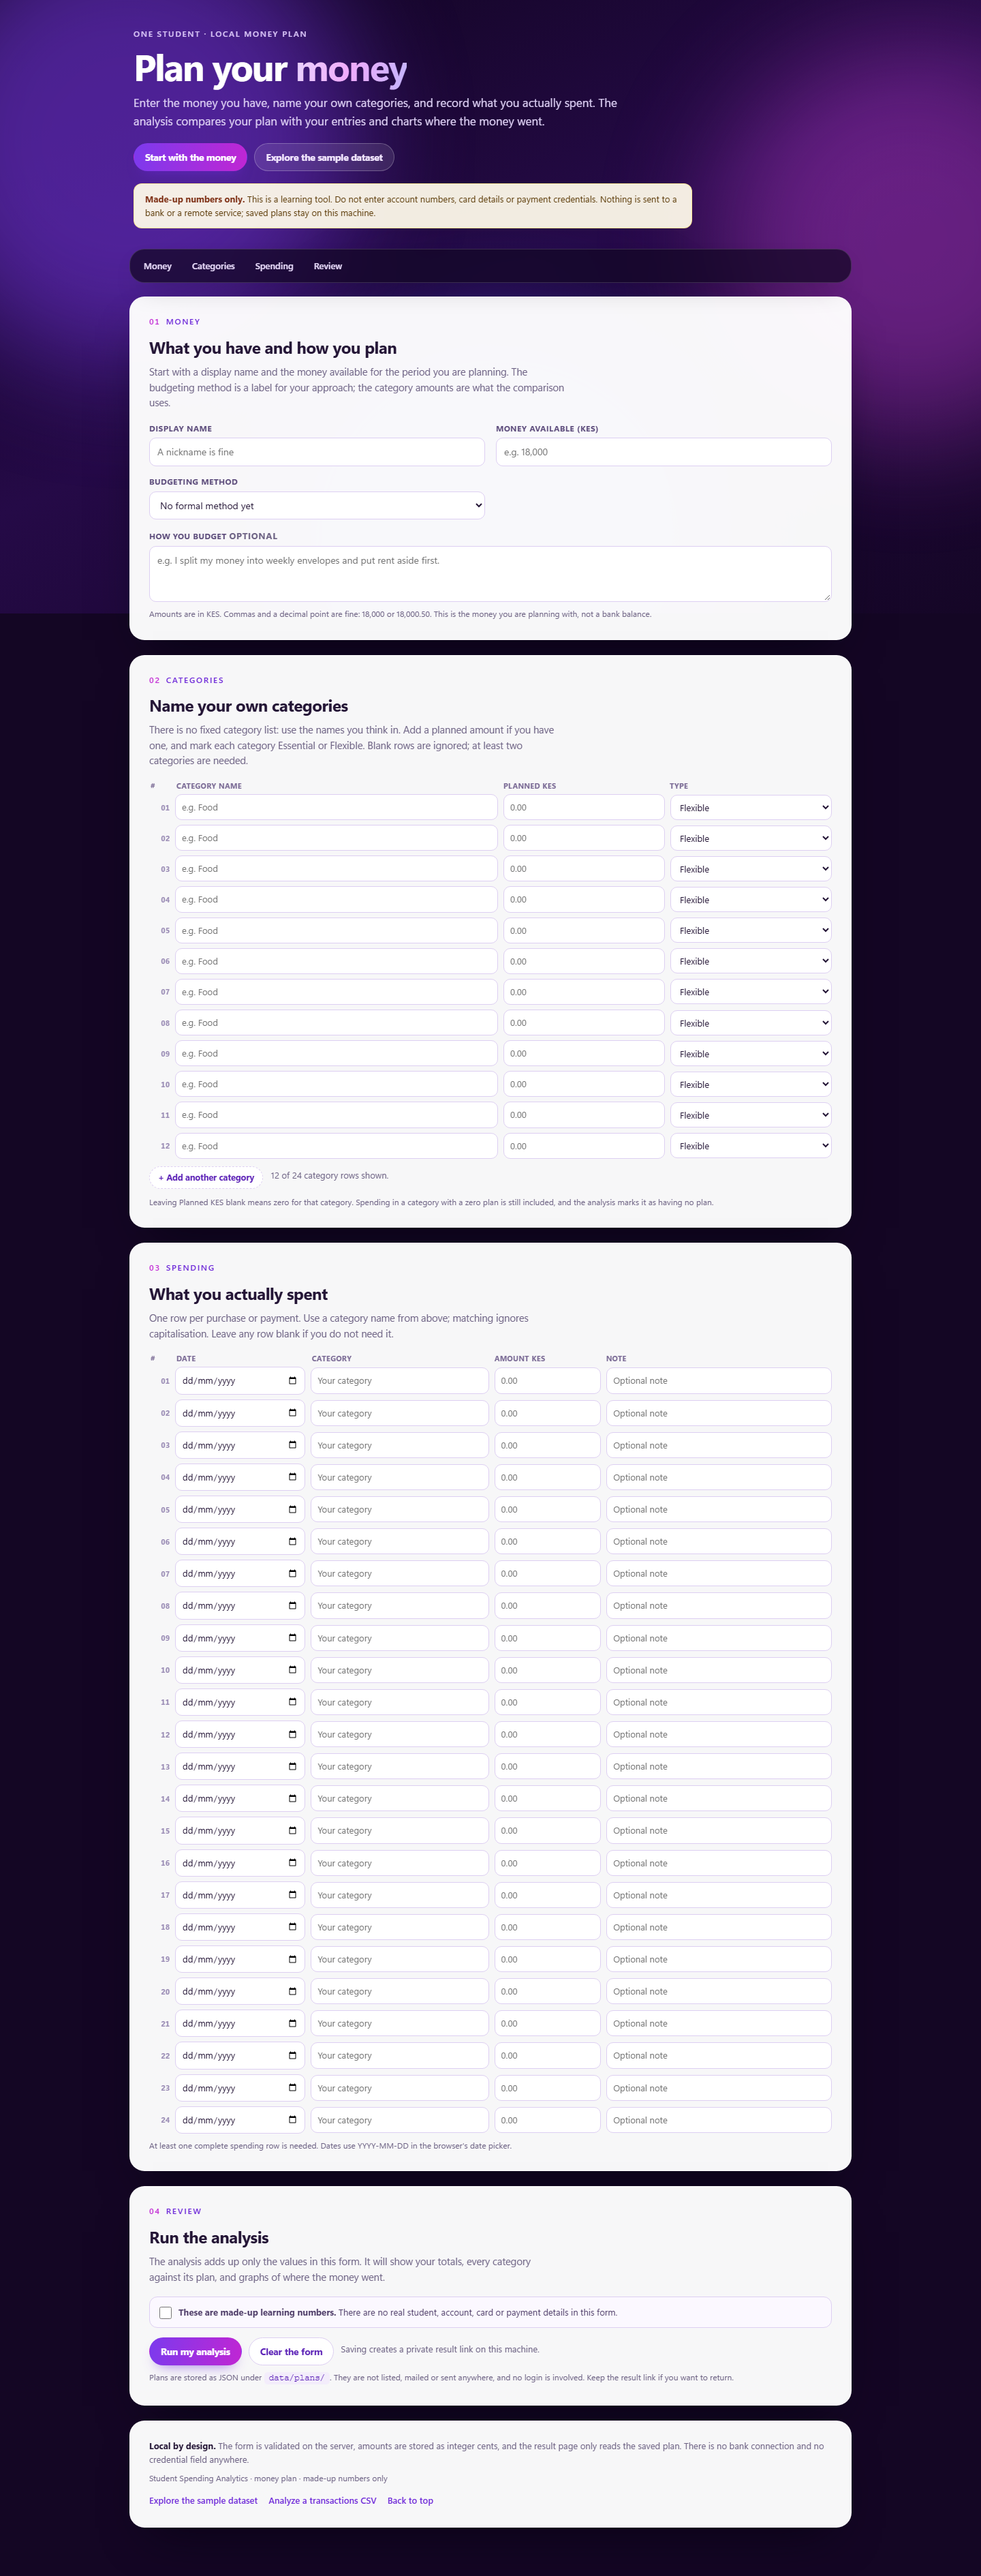
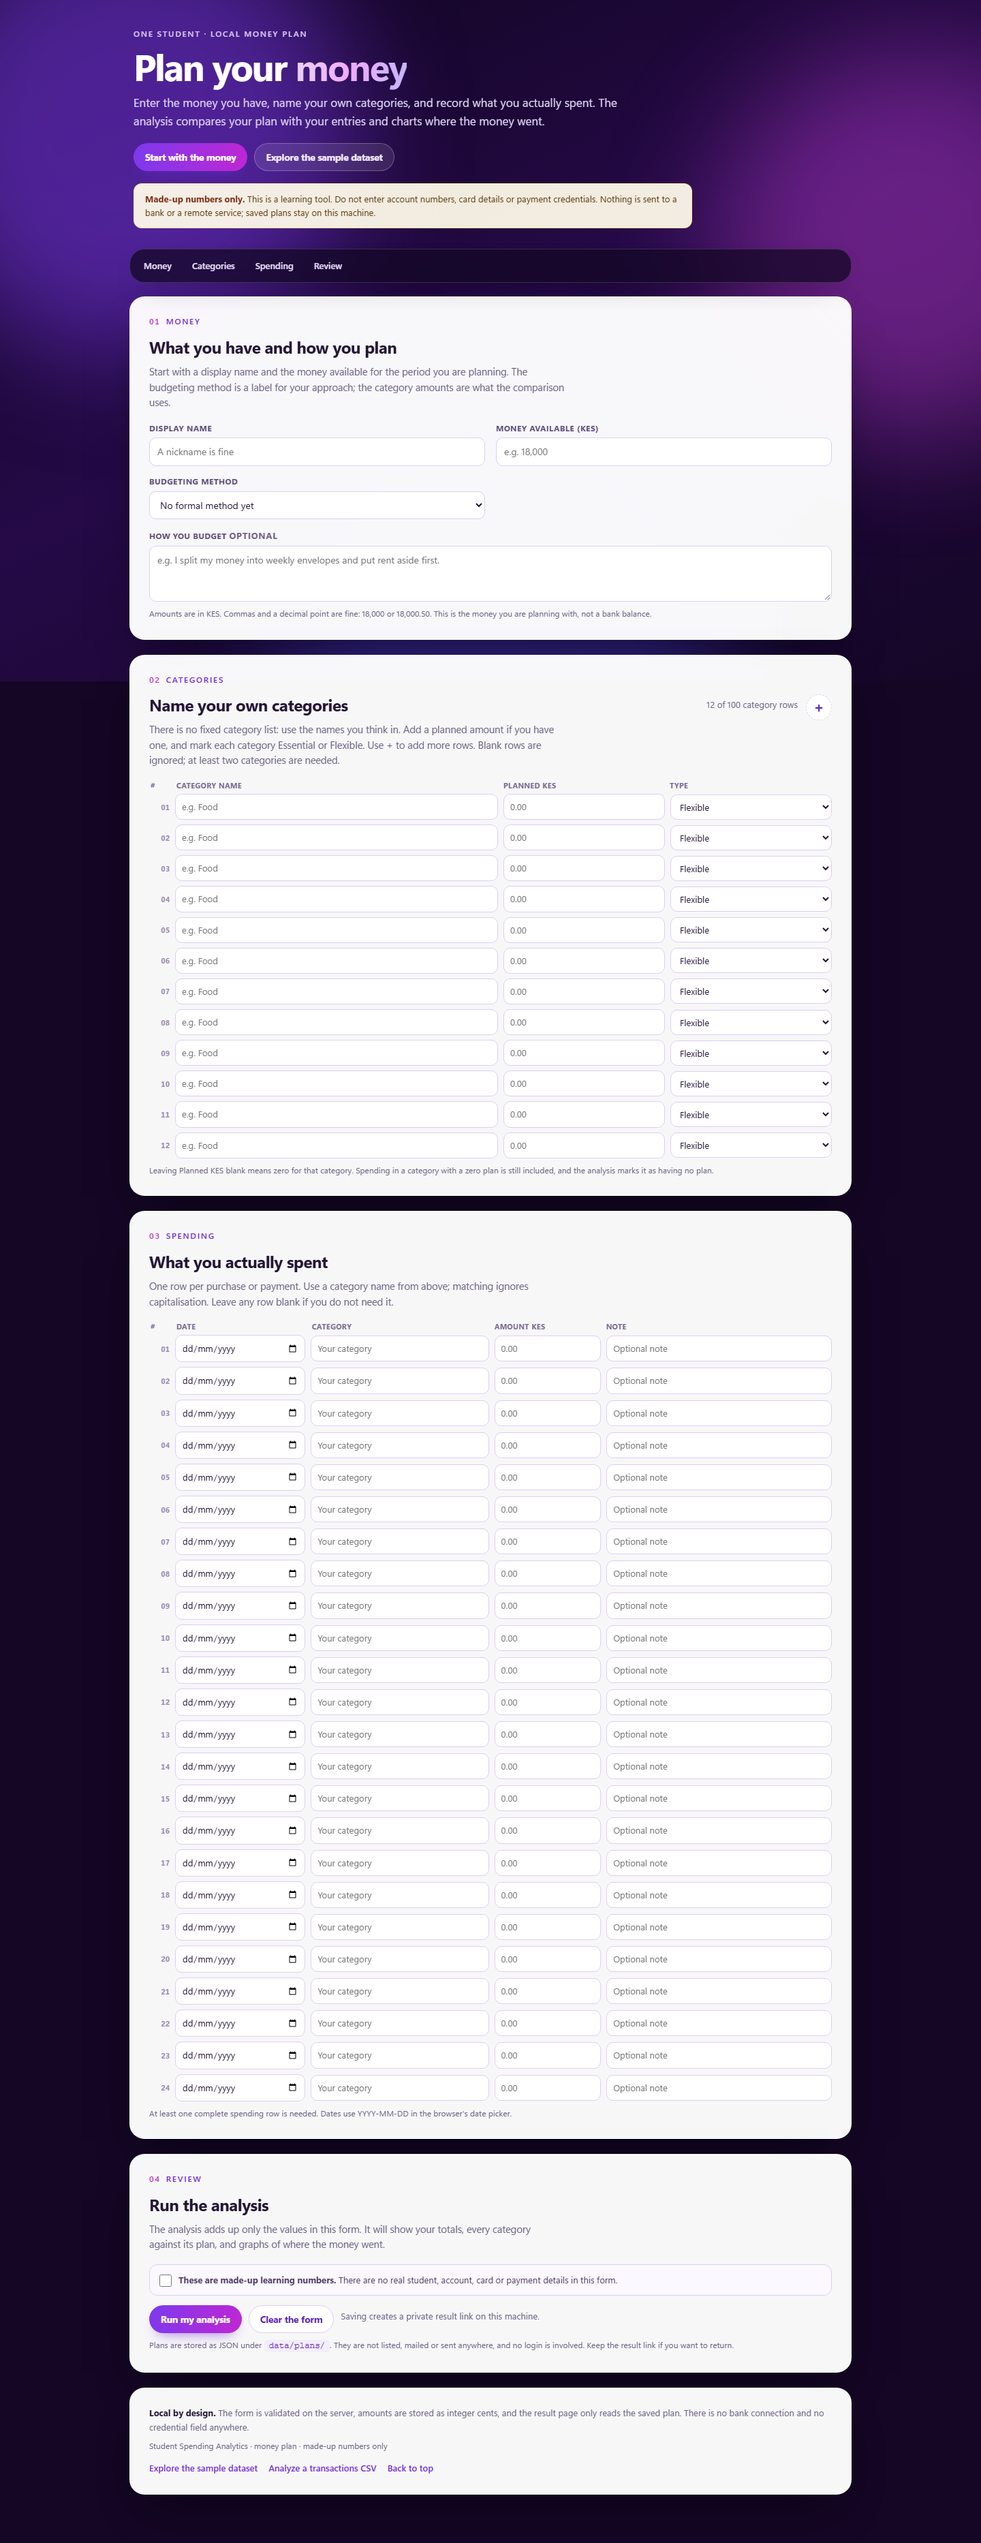
feat: use a + control for category rows and raise the limit
The Categories heading now carries a compact + button that adds one row while
keeping the draft, and still saves nothing until the analysis is run. Students
can grow the list from 12 to 100 categories; the form field cap rises to 600 so
the largest plan parses.

Changed region(s): [[0.0, 0.0311, 0.875, 0.9636], [0.75, 0.9325, 0.8125, 0.9636]]

diff --git a/src/student_spending/web.py b/src/student_spending/web.py
@@ -205,9 +205,13 @@ _DASH_CSS = """
 .row-no { color: #9a8cb5; font-size: 11px; font-weight: 700;
   font-variant-numeric: tabular-nums; text-align: right; }
 .plan-section-note { margin: 8px 0 0; color: var(--muted); font-size: 12px; }
-.plan-add { display: flex; flex-wrap: wrap; gap: 6px 12px; align-items: center;
-  margin: 10px 0 0; }
+.plan-title-row { display: flex; flex-wrap: wrap; gap: 8px 16px; align-items: center;
+  justify-content: space-between; }
+.plan-add { display: flex; flex-wrap: wrap; gap: 8px 12px; align-items: center; }
 .plan-add .button { border-style: dashed; }
+.plan-add-button { width: 38px; height: 38px; padding: 0; font-size: 22px;
+  line-height: 1; }
+.plan-add-button span { transform: translateY(-1px); }
 .error-list { margin: 5px 0 0; padding-left: 18px; }
 .error-list li { margin: 2px 0; }
 .plan-actions { display: flex; flex-wrap: wrap; gap: 10px; align-items: center;
@@ -1560,17 +1564,18 @@ def render_plan_page(
     if category_rows < MAX_CATEGORIES:
         add_category = (
             '<div class="plan-add">'
-            '<button class="button ghost small" type="submit" name="action" '
-            'value="add_category" formaction="/plan#categories" formnovalidate>'
-            "+ Add another category</button>"
             f'<span class="section-note">{category_rows} of {MAX_CATEGORIES} '
-            "category rows shown.</span>"
+            "category rows</span>"
+            '<button class="button ghost plan-add-button" type="submit" '
+            'name="action" value="add_category" formaction="/plan#categories" '
+            'formnovalidate aria-label="Add another category" '
+            'title="Add another category"><span aria-hidden="true">+</span></button>'
             "</div>"
         )
     else:
         add_category = (
-            f'<p class="plan-section-note">{MAX_CATEGORIES} category rows is the '
-            "maximum.</p>"
+            f'<span class="section-note">{MAX_CATEGORIES} category rows is the '
+            "maximum.</span>"
         )
     body = f"""
 <main class="shell">
@@ -1635,17 +1640,20 @@ def render_plan_page(
 
     <section class="panel" id="categories" aria-labelledby="categories-title">
       <p class="eyebrow"><span class="section-no">02</span> Categories</p>
-      <h2 id="categories-title">Name your own categories</h2>
+      <div class="plan-title-row">
+        <h2 id="categories-title">Name your own categories</h2>
+        {add_category}
+      </div>
       <p class="lead">There is no fixed category list: use the names you think in.
         Add a planned amount if you have one, and mark each category Essential or
-        Flexible. Blank rows are ignored; at least two categories are needed.</p>
+        Flexible. Use + to add more rows. Blank rows are ignored; at least two
+        categories are needed.</p>
       <div class="plan-rows">
         <div class="plan-row-head cat-cols">
           <span>#</span><span>Category name</span><span>Planned KES</span><span>Type</span>
         </div>
         {categories_html}
       </div>
-      {add_category}
       <p class="plan-section-note">Leaving Planned KES blank means zero for that
         category. Spending in a category with a zero plan is still included, and the
         analysis marks it as having no plan.</p>
@@ -2114,7 +2122,7 @@ class DashboardServer(ThreadingHTTPServer):
 
 class DashboardHandler(BaseHTTPRequestHandler):
     server: DashboardServer
-    server_version = "StudentSpendingDashboard/1.4.1"
+    server_version = "StudentSpendingDashboard/1.4.2"
     sys_version = ""
     timeout = 30
 

diff --git a/tests/test_web.py b/tests/test_web.py
@@ -1112,7 +1112,8 @@ class MoneyPlanTests(unittest.TestCase):
         self.assertGreater(int(headers["Content-Length"]), 0)
         self.assertIn('name="category_rows" value="12"', page)
         self.assertIn('name="spending_rows" value="24"', page)
-        self.assertIn("+ Add another category", page)
+        self.assertIn('aria-label="Add another category"', page)
+        self.assertIn("12 of 100 category rows", page)
 
     def test_add_category_keeps_typed_values_without_saving(self) -> None:
         fields = self.plan_fields()
@@ -1130,7 +1131,7 @@ class MoneyPlanTests(unittest.TestCase):
         self.assertIn('name="category_rows" value="13"', page)
         self.assertIn('value="Amina"', page)
         self.assertIn('value="Rent"', page)
-        self.assertIn("13 of 24 category rows shown.", page)
+        self.assertIn("13 of 100 category rows", page)
         self.assertEqual(self.plan_files(), set())
 
     def test_extra_category_rows_are_saved(self) -> None:
@@ -1152,27 +1153,43 @@ class MoneyPlanTests(unittest.TestCase):
         self.assertEqual(len(payload["categories"]), 13)
         self.assertEqual(payload["categories"][-1]["name"], "Category 13")
 
+    def test_hundred_category_rows_can_be_saved(self) -> None:
+        categories = tuple(
+            (f"Category {number}", "0", "flexible") for number in range(1, 101)
+        )
+        fields = self.plan_fields(
+            categories=categories,
+            spendings=(("2026-10-01", "Category 1", "10", "Tea"),),
+        )
+        fields.extend([("category_rows", "100"), ("spending_rows", "24")])
+        plan_id = self.create_plan(fields)
+
+        path = Path(config.PLAN_DATA_DIR) / f"{plan_id}.json"
+        payload = json.loads(path.read_text(encoding="utf-8"))
+        self.assertEqual(len(payload["categories"]), 100)
+        self.assertEqual(payload["categories"][-1]["name"], "Category 100")
+
     def test_category_rows_stop_at_the_limit(self) -> None:
         fields = self.plan_fields()
         fields.extend(
             [
-                ("category_rows", "24"),
+                ("category_rows", "100"),
                 ("spending_rows", "24"),
                 ("action", "add_category"),
             ]
         )
         status, _, page = self.post_form(fields)
         self.assertEqual(status, 200)
-        self.assertIn('name="category_name_24"', page)
-        self.assertNotIn('name="category_name_25"', page)
-        self.assertIn("24 category rows is the maximum.", page)
-        self.assertNotIn("+ Add another category", page)
+        self.assertIn('name="category_name_100"', page)
+        self.assertNotIn('name="category_name_101"', page)
+        self.assertIn("100 category rows is the maximum.", page)
+        self.assertNotIn('aria-label="Add another category"', page)
 
         fields[-3] = ("category_rows", "999")
         status, _, page = self.post_form(fields)
         self.assertEqual(status, 200)
-        self.assertIn('name="category_name_24"', page)
-        self.assertNotIn('name="category_name_25"', page)
+        self.assertIn('name="category_name_100"', page)
+        self.assertNotIn('name="category_name_101"', page)
 
     def test_plan_submission_is_saved_and_bookmarkable(self) -> None:
         plan_id = self.create_plan()

diff --git a/src/student_spending/personal.py b/src/student_spending/personal.py
@@ -26,14 +26,15 @@ MAX_NAME_LENGTH = 60
 MAX_METHOD_NOTE_LENGTH = 300
 MAX_CATEGORY_NAME_LENGTH = 32
 MAX_ENTRY_NOTE_LENGTH = 120
-MAX_CATEGORIES = 24
+MAX_CATEGORIES = 100
 MAX_SPENDINGS = 24
 CATEGORY_ROWS = 12
 SPENDING_ROWS = 24
 MAX_PLANNED_CENTS = 100_000_000  # KES 1,000,000.00 per category
 MAX_SPENDING_CENTS = config.MAX_TRANSACTION_AMOUNT_CENTS
 MAX_PLAN_REQUEST_BYTES = 256 * 1024
-MAX_FORM_FIELDS = 250
+# Covers the largest allowed form: 100 category rows and 24 spending rows.
+MAX_FORM_FIELDS = 600
 MAX_SAVED_PLAN_BYTES = 256 * 1024
 
 PLAN_ID_PATTERN = re.compile(r"^p-[A-Za-z0-9_-]{16}$")

diff --git a/src/student_spending/__init__.py b/src/student_spending/__init__.py
@@ -1,3 +1,3 @@
 """Student Spending Analytics pipeline package."""
 
-__version__ = "1.4.1"
+__version__ = "1.4.2"

diff --git a/README.md b/README.md
@@ -99,7 +99,7 @@ virtual environment.
 ```powershell
 python scripts\generate_synthetic_data.py     # writes data/raw/*.csv
 student-spending --full-refresh               # deletes the warehouse, then rebuilds it
-python run_tests.py                           # 130 tests
+python run_tests.py                           # 131 tests
 start reports\spending_report.html
 student-spending serve --open                 # local server; blocks until Ctrl+C
 ```
@@ -243,7 +243,7 @@ form is an ordinary HTML form with no JavaScript:
 2. **Categories** — name your own categories, in your own words. Each row takes an
    optional planned amount and an **Essential** or **Flexible** flag. There is no fixed
    category list. Blank rows are ignored, and at least two named categories are required.
-   **+ Add another category** extends the form from 12 rows up to 24; it preserves every
+   The **+** button beside the heading adds rows, from 12 up to 100; it preserves every
    value you have typed and does not save a plan.
 3. **Spending** — one row per purchase or payment: date, one of your category names,
    amount and an optional note. Category matching ignores capitalisation, and entries in
@@ -251,8 +251,8 @@ form is an ordinary HTML form with no JavaScript:
 4. **Review** — confirm the numbers are made up, then select **Run my analysis**.
 
 Amounts accept `2,500`, `2500`, `12 500` and `KES 2500.50`, and are stored as integer
-cents. The form starts with 12 category rows and 24 spending rows; the add button
-extends categories to 24. A plan cannot hold more than those limits.
+cents. The form starts with 12 category rows and 24 spending rows; the **+** button
+extends categories to 100. A plan cannot hold more than those limits.
 
 The result page is saved under an unguessable `/plan?plan=p-…` link and shows:
 
@@ -432,7 +432,7 @@ student-spending-analytics/
 ├── scripts/                  generate_synthetic_data.py, check_env.py
 ├── sql/                      schema.sql, example_queries.sql
 ├── src/student_spending/     pipeline, report, platform, dashboard and plan modules
-├── tests/                    130 unittest cases
+├── tests/                    131 unittest cases
 ├── warehouse/                generated SQLite database; uploads/ per analysis (git-ignored)
 ├── logs/                     pipeline.log (git-ignored)
 ├── pyproject.toml            package metadata, console script, build config
@@ -515,7 +515,7 @@ python run_tests.py
 python -m unittest discover -s tests -t . -v
 ```
 
-130 tests covering: extraction failures and malformed rows, derived and explicit student
+131 tests covering: extraction failures and malformed rows, derived and explicit student
 dimensions, every validation rule, normalisation, duplicate handling, reconciliation
 accounting, idempotent loading, foreign keys and CHECK constraints, analytics totals and
 shares, anomaly flagging, all quality checks, end-to-end pipeline runs including rerun
@@ -530,7 +530,7 @@ dates, bounds, at least two categories and one spending row, synthetic confirmat
 integer-cent analysis (planned/spent/left/unallocated, category statuses, essential and
 flexible shares, daily average), JSON storage and reload, rejection of malformed or
 tampered plan files, and the web flow: form rendering, adding category rows while
-preserving input without saving, the 24-row limit, submission and bookmarkable result,
+preserving input without saving, the 100-row limit, submission and bookmarkable result,
 edit-as-copy, validation errors that preserve input and save nothing, cross-site and
 wrong-content-type guards, injected-text escaping, and analysis with zero planned amounts.
 
@@ -611,10 +611,10 @@ external services.
 - The money planner is a single-student worksheet with no history, month switching or
   comparison between periods. It does not import the sample warehouse or an uploaded
   CSV, and it has no recurring-entry or currency-conversion support; all amounts are KES.
-- The planner form starts with 12 category rows (up to 24 with **+ Add another
-  category**) and 24 spending rows. Every submission creates a new saved plan, including
-  **Edit as a copy**. There is no in-place update, delete button, retention policy or
-  list of saved plans; remove files under `data/plans/` by hand.
+- The planner form starts with 12 category rows (up to 100 with the **+** button) and
+  24 spending rows. Every submission creates a new saved plan, including **Edit as a
+  copy**. There is no in-place update, delete button, retention policy or list of saved
+  plans; remove files under `data/plans/` by hand.
 - Saved plans are unencrypted JSON containing the display name, amounts, categories and
   notes. There is no login: anyone who can reach the server or read the disk and knows a
   plan id can read that plan. That is acceptable only for made-up numbers on loopback.

diff --git a/docs/LEARNING_LOG.md b/docs/LEARNING_LOG.md
@@ -23,7 +23,7 @@ useful to whoever maintains this project next — including future me.
 | 13. Interactive dashboard | done | `web.py`, `student-spending serve`, 20 dashboard tests, browser-checked at 1280 px and 390 px |
 | 14. Upload platform | done | `platform.py`, `/upload`, isolated workspaces, 11 upload tests, browser-checked upload and analysis |
 | 15. Single-file upload | done | one transactions CSV, derived students, budget variance skipped, 95 tests |
-| 16. Per-student money plan | done | `personal.py`, `/plan`, user-defined categories, add-row control, saved results, 35 plan tests (130 total), browser-checked at 1440 px and 390 px |
+| 16. Per-student money plan | done | `personal.py`, `/plan`, user-defined categories, add-row control, saved results, 37 plan tests (131 total), browser-checked at 1440 px and 390 px |
 
 ## Decisions worth remembering
 
@@ -126,11 +126,12 @@ useful to whoever maintains this project next — including future me.
   go?"; the grouped chart puts each category's plan next to its actual spend on a shared
   axis. Both are inline SVG with tooltips, and both use the same shortened labels so a
   long user-defined name does not collide with the value.
-- **Add-row is a draft round-trip, not a script.** **+ Add another category** submits the
-  current form to the server with `action=add_category`, and the page is re-rendered with
-  one more row and every draft value intact. It does not validate or save. This keeps the
-  no-JavaScript and strict-CSP constraints, at the cost of a page reload per added row;
-  hidden row counts make the added rows survive validation errors and final submission.
+- **Add-row is a draft round-trip, not a script.** The **+** button beside the Categories
+  heading submits the current form to the server with `action=add_category`, and the page
+  is re-rendered with one more row and every draft value intact. It does not validate or
+  save. This keeps the no-JavaScript and strict-CSP constraints, at the cost of a page
+  reload per added row; hidden row counts make the added rows survive validation errors
+  and final submission.
 
 ## Bugs hit during development
 

diff --git a/CHANGELOG.md b/CHANGELOG.md
@@ -4,6 +4,22 @@ All notable changes to this project are documented here. The format follows
 [Keep a Changelog](https://keepachangelog.com/en/1.1.0/) and the project uses
 [semantic versioning](https://semver.org/spec/v2.0.0.html).
 
+## [1.4.2] - 2026-10-26
+
+Turns the add-row control into a compact **+** button beside the Categories heading and
+raises the category limit from 24 to 100, so a student can build the category list their
+budget actually needs.
+
+### Changed
+
+- The **+** button sits next to the Categories heading, with an accessible label and a
+  tooltip. It adds one row per click, keeps every typed value, and still saves nothing
+  until **Run my analysis** is selected.
+- Category rows can grow from 12 to 100 (previously 24). The row counter now reads
+  "12 of 100 category rows"; at the limit the button is replaced by a maximum note.
+- The form field cap rises from 250 to 600 so a 100-category plan parses, and the release
+  version is now `1.4.2`. One new test brings the suite to 131.
+
 ## [1.4.1] - 2026-10-26
 
 Adds an **+ Add another category** control to the money-plan form. It works without
